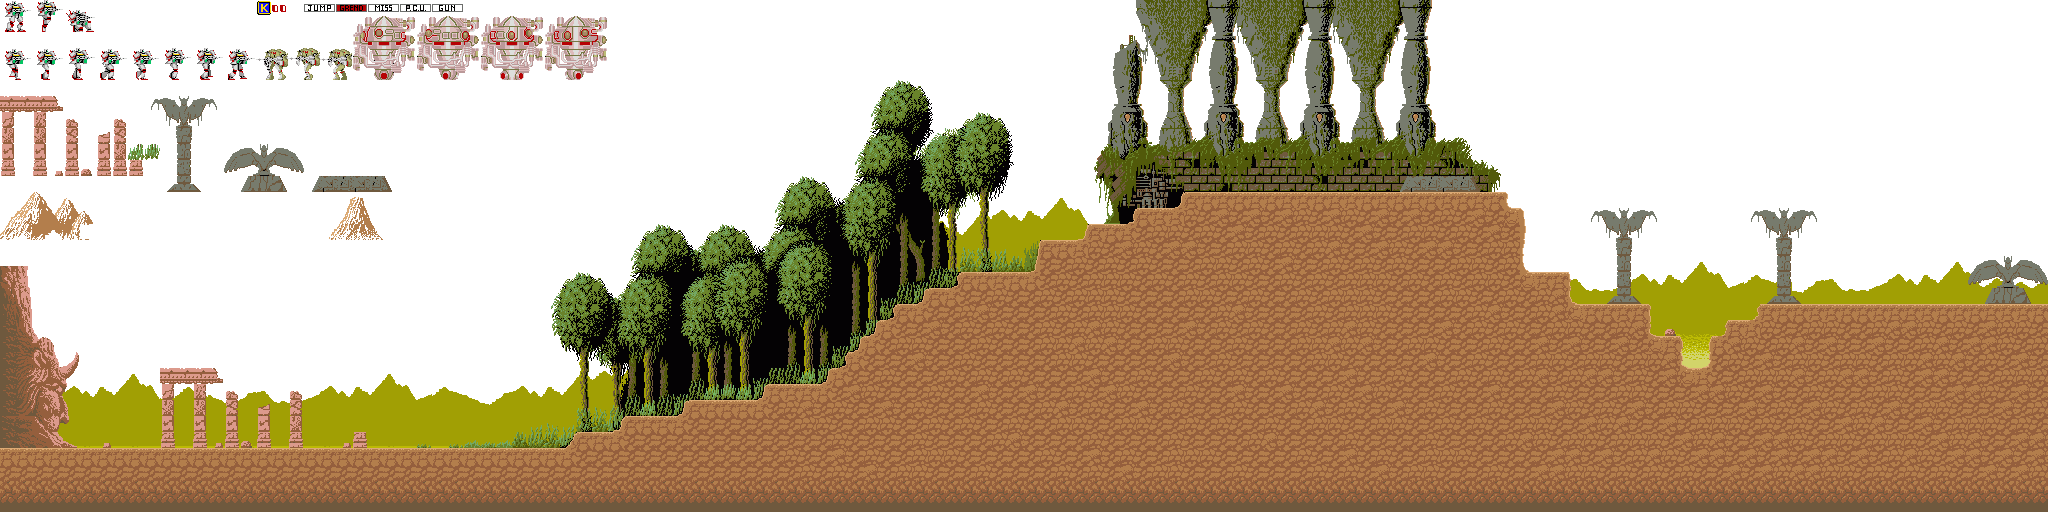
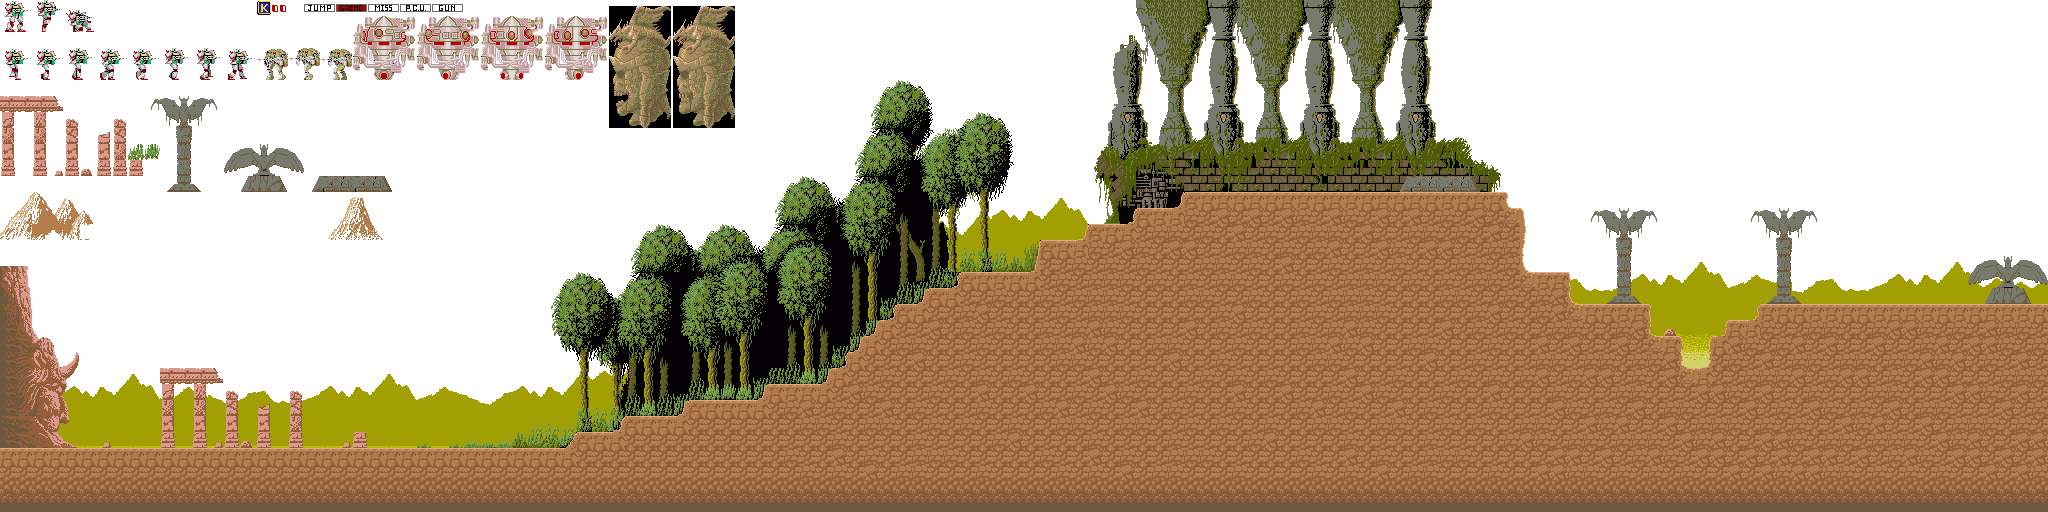
Big head and End Boss included

Changed region(s): [[0.2812, 0.0, 0.375, 0.25]]

diff --git a/Oscar/Actors.tsx b/Oscar/Actors.tsx
@@ -31,4 +31,9 @@
       <property name="Name" value="level01_boss" type="string" />
     </properties>
   </tile>
+  <tile id="6">
+    <properties>
+      <property name="Name" value="level01_bighead" type="string" />
+    </properties>
+  </tile>
 </tileset>
